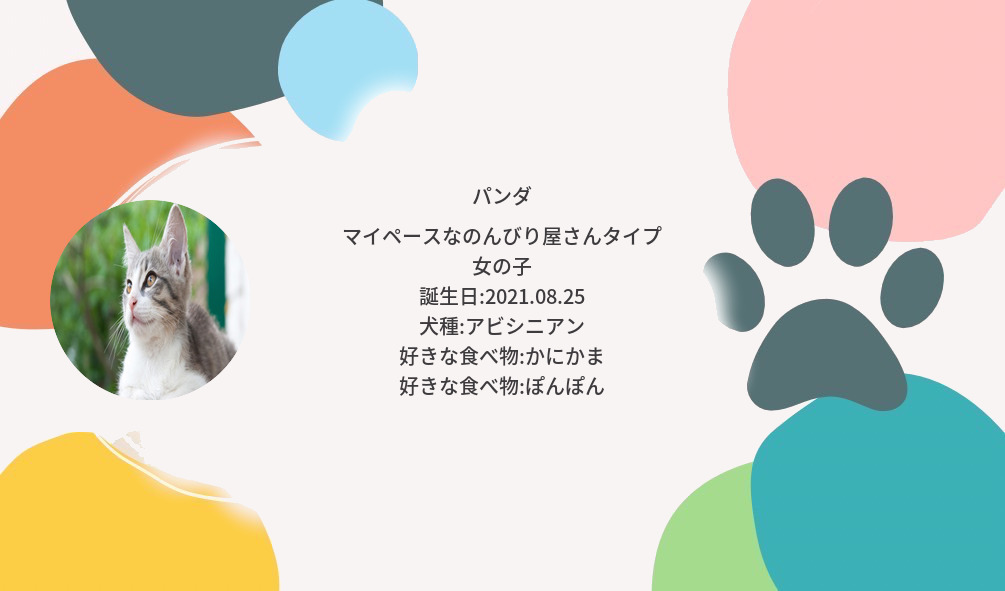
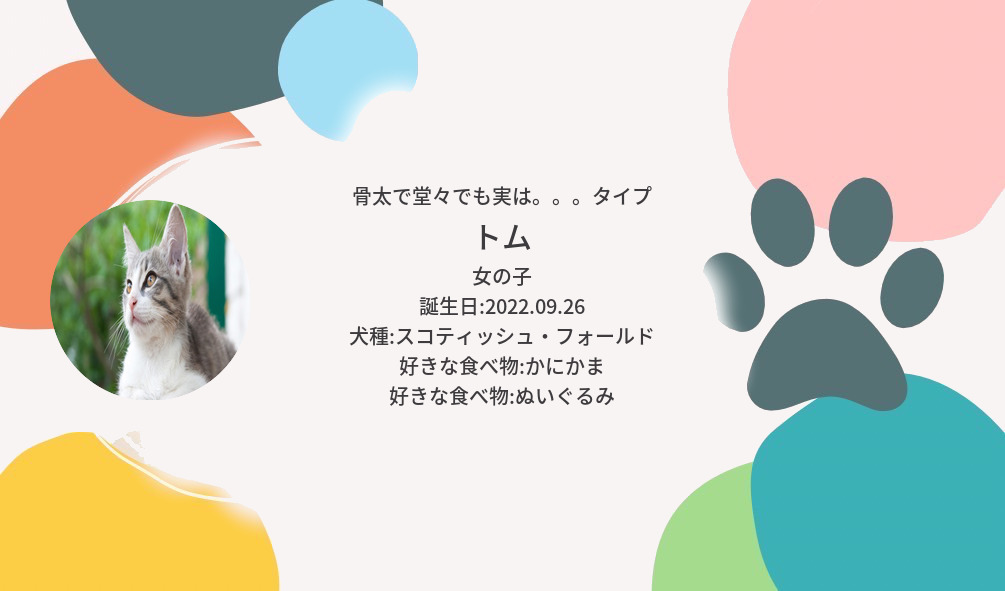
feat:プロフィールカードにダウンロード機能を追加

Changed region(s): [[0.3393, 0.3046, 0.6478, 0.7005], [0.5861, 0.3046, 0.6478, 0.335]]

diff --git a/app/models/profile_card.rb b/app/models/profile_card.rb
@@ -157,15 +157,16 @@ class ProfileCard < ApplicationRecord
     draw.stroke    = 'transparent'
     draw.pointsize = 20
     draw.gravity   = CenterGravity
-    draw.annotate(base_img, 0, 0, 0, -60, profile_card.personality_i18n)
-    draw.annotate(base_img, 0, 0, 0, -30, profile_card.gender_i18n)
-    draw.annotate(base_img, 0, 0, 0, 0, "誕生日:#{I18n.l profile_card.birthday}")
-    draw.annotate(base_img, 0, 0, 0, 30, "犬種:#{profile_card.breed.name}")
-    draw.annotate(base_img, 0, 0, 0, 60, "好きな食べ物:#{profile_card.favorite_treat}")
-    draw.annotate(base_img, 0, 0, 0, 90, "好きな食べ物:#{profile_card.favorite_toy}")
+    draw.annotate(base_img, 0, 0, 0, -100, profile_card.personality_i18n)
+    draw.annotate(base_img, 0, 0, 0, -20, profile_card.gender_i18n)
+    draw.annotate(base_img, 0, 0, 0, 10, "誕生日:#{I18n.l profile_card.birthday}")
+    draw.annotate(base_img, 0, 0, 0, 40, "犬種:#{profile_card.breed.name}")
+    draw.annotate(base_img, 0, 0, 0, 70, "好きな食べ物:#{profile_card.favorite_treat}")
+    draw.annotate(base_img, 0, 0, 0, 100, "好きな食べ物:#{profile_card.favorite_toy}")
 
     draw.font = 'app/assets/fonts/NotoSansJP-Medium.otf'
-    draw.annotate(base_img, 0, 0, 0, -100, profile_card.name)
+    draw.pointsize = 30
+    draw.annotate(base_img, 0, 0, 0, -60, profile_card.name)
 
     profile_face_image = Magick::Image.read(profile_card.face_image.url).first.resize(200, 200)
 

diff --git a/app/controllers/profile_cards_controller.rb b/app/controllers/profile_cards_controller.rb
@@ -36,9 +36,19 @@ class ProfileCardsController < ApplicationController
     end
   end
 
+  def download
+    profile_card = ProfileCard.find(download_params[:id])
+    image = profile_card.profile_card_data_a
+    send_data(image.read, filename: "#{profile_card.name}ちゃんのプロフィールカード")
+  end
+
   private
 
   def profile_card_params
     params.require(:profile_card).permit(:breed_id, :name, :gender, :birthday, :face_image, :face_image_cache, :pad_image, :pad_image_cache, :favorite_treat, :favorite_toy, )
+  end
+
+  def download_params
+    params.permit(:id)
   end
 end

diff --git a/config/routes.rb b/config/routes.rb
@@ -8,4 +8,7 @@ Rails.application.routes.draw do
   resources :password_resets, only: %i[new create edit update]
   mount LetterOpenerWeb::Engine, at: '/letter_opener' if Rails.env.development?
   resources :profile_cards
+  resources :profile_cards do
+    get :download, on: :member
+  end
 end
